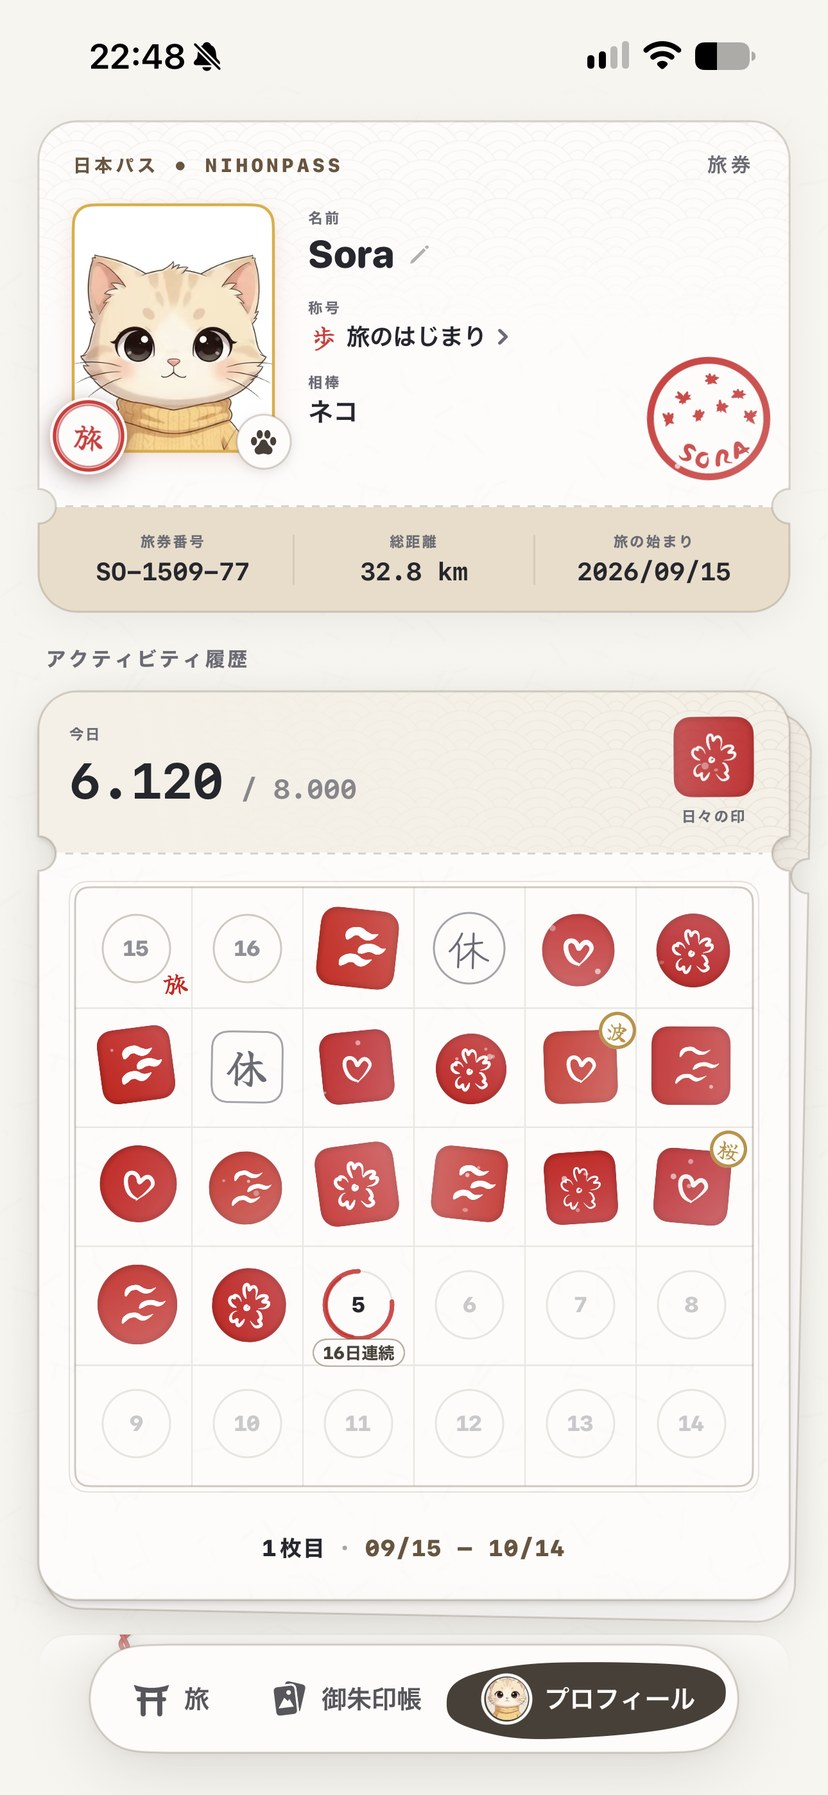
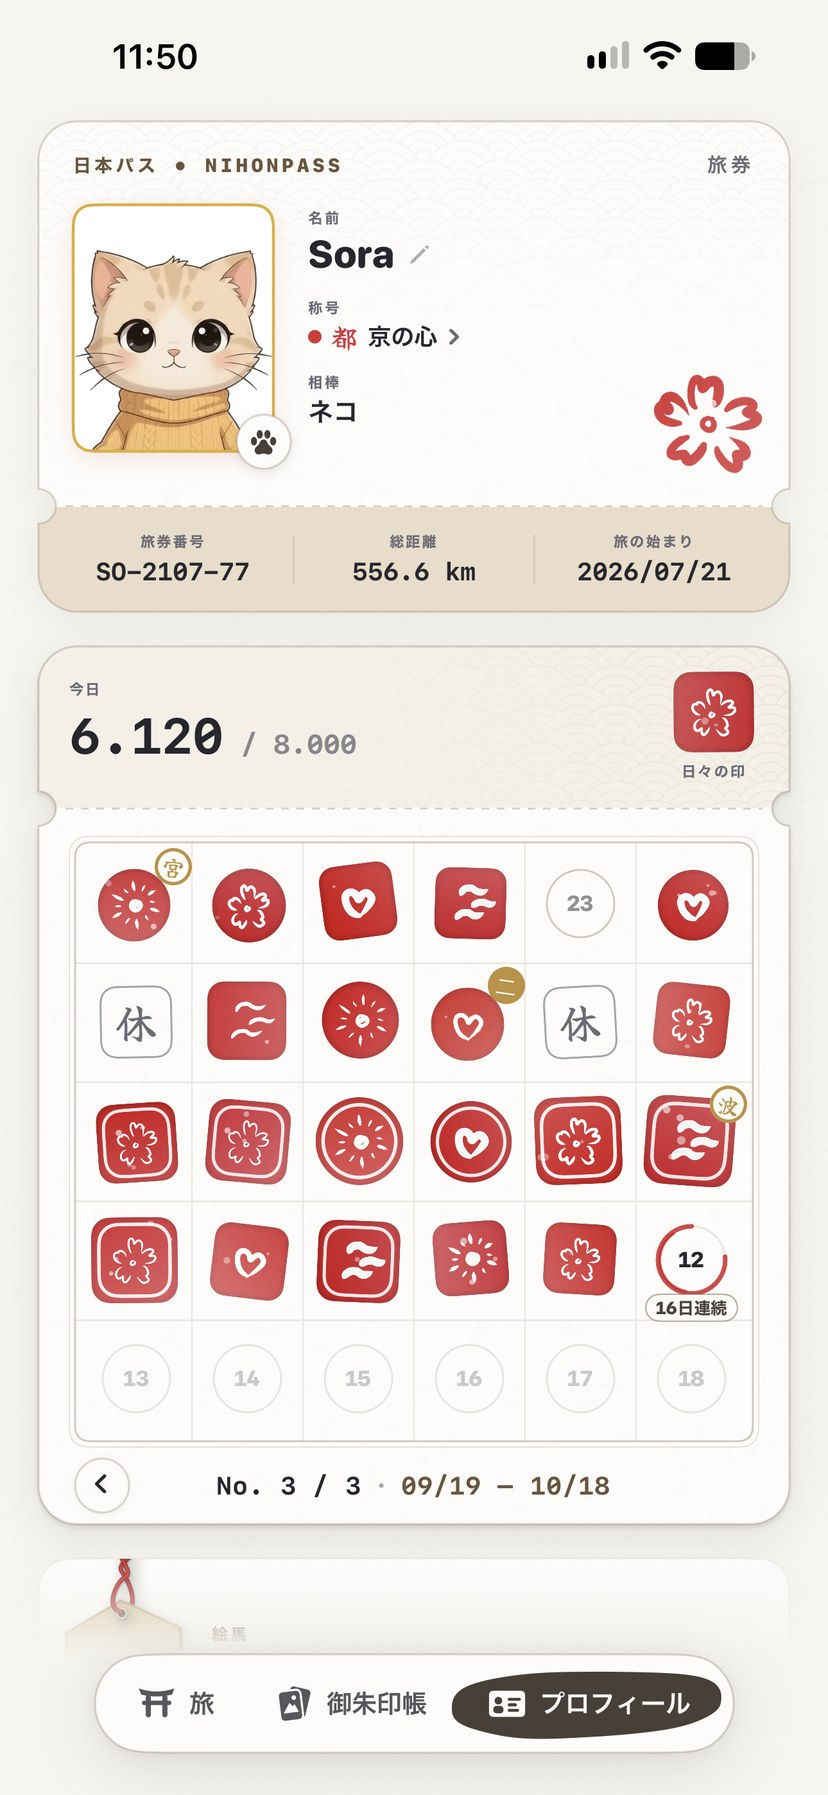
feat(web): update personalization mockup to current profile and refine copy to be natural and warm

diff --git a/js/translations.js b/js/translations.js
@@ -125,13 +125,13 @@ const translations = {
     // Personalisierung & Eigene Handschrift
     custom_tag: "TRADITION & EIGENE HANDSCHRIFT · 絵馬と落款",
     custom_title: "Dein Pass. Deine Handschrift.",
-    custom_desc: "Gestalte deine Reise so einzigartig wie deine Schritte. Von der traditionellen Ema-Wunschtafel vor dem Start bis zum handgemalten Siegel in deinem Reisepass.",
-    custom_b1_title: "Ema-Wunschtafel vor dem Start",
-    custom_b1_desc: "Wie am Schrein: Halte dein Vorhaben mit Pinsel und Tusche auf der Holztafel fest. Deine Wunschtafel begleitet dich bis zur Abschluss-Urkunde.",
-    custom_b2_title: "Dein handgemaltes Hanko-Siegel",
-    custom_b2_desc: "Gestalte dein persönliches Namenssiegel wie ein traditioneller Schreiber – als offizieller roter Stempel oben rechts auf deinem Reisepass.",
-    custom_b3_title: "Individuelle Tagesstempel im Kalender",
-    custom_b3_desc: "Jeder Tag, an dem du dein Schrittziel erreichst, wird mit deinem eigens handgemalten Stempel im Aktivitätskalender belohnt.",
+    custom_desc: "In Japan beginnt jede echte Reise mit einer persönlichen Geste. Statt vorgefertigter Profile nimmst du in NihonPass Pinsel und Tusche in die Hand: Du zeichnest dein eigenes Namenssiegel, schreibst Wünsche auf Holztafeln und machst deinen Reisepass zu etwas ganz Eigenem.",
+    custom_b1_title: "Eine Ema-Holztafel vor dem ersten Schritt",
+    custom_b1_desc: "Genau wie an japanischen Schreinen: Bevor es losgeht, malst du deinen Wunsch mit schwarzer Tusche auf eine kleine Holztafel. Sie hängt an deiner Reise und begleitet dich bis zur Urkunde am Ziel.",
+    custom_b2_title: "Dein persönliches Namenssiegel",
+    custom_b2_desc: "Ob eine Initiale, ein schnelles Kanji oder ein eigenes Symbol: Male mit dem Pinsel dein rotes Hanko-Siegel. Es wird oben rechts auf deinen Reisepass gestempelt – in echtem Zinnoberrot.",
+    custom_b3_title: "Selbstgemalte Stempel für jeden Tag",
+    custom_b3_desc: "Erreichst du dein Tagesziel, gibt es kein trockenes Häkchen: Du kannst bis zu fünf eigene Stempel gestalten und sogar kurze Notizen zu deinen Spaziergängen im Kalender hinterlassen.",
 
     // Companions (Exakt aus UserProfile.swift)
     comp_tag: "DEINE BEGLEITER · 相棒",
@@ -389,13 +389,13 @@ const translations = {
     // Customization & Brush
     custom_tag: "TRADITION & PERSONAL TOUCH · 絵馬と落款",
     custom_title: "Your Pass. Your Signature.",
-    custom_desc: "Make your journey as unique as your steps. From the traditional Ema wishing plaque before you start to a hand-drawn seal in your travel pass.",
-    custom_b1_title: "Ema Wishing Plaque at the Start",
-    custom_b1_desc: "Just like at a Japanese shrine: paint your intention on the wooden plaque with ink and brush. It stays with you all the way to your completion certificate.",
-    custom_b2_title: "Your Hand-Drawn Hanko Seal",
-    custom_b2_desc: "Craft your personal name seal like a traditional calligrapher – stamped in vermilion red at the top right of your passport.",
-    custom_b3_title: "Custom Daily Stamps in Your Calendar",
-    custom_b3_desc: "Every day you reach your daily step goal, your handcrafted stamp seals the day in your activity calendar.",
+    custom_desc: "In Japan, every journey begins with a personal touch. Instead of generic profiles, pick up a virtual brush and ink in NihonPass: draw your own red seal, write wishes on wooden plaques, and make your travel pass truly your own.",
+    custom_b1_title: "An Ema wooden plaque before your first step",
+    custom_b1_desc: "Just like at Japanese shrines: before setting out, paint your wish on a small wooden plaque with black ink. It hangs by your journey all the way to your certificate.",
+    custom_b2_title: "Your personal name seal (Hanko)",
+    custom_b2_desc: "An initial, a simple Kanji, or your own motif: draw your red Hanko seal with a brush. It stamps the top right of your passport in traditional vermilion.",
+    custom_b3_title: "Hand-drawn stamps for every day",
+    custom_b3_desc: "Hitting your step goal shouldn't feel like ticking off a checklist. Paint up to five custom stamps and add quiet daily notes to your walks in your calendar.",
 
     // Companions
     comp_tag: "YOUR COMPANIONS · 相棒",

diff --git a/index.html b/index.html
@@ -389,30 +389,30 @@
         <span class="section-tag" data-i18n="custom_tag">TRADITION & EIGENE HANDSCHRIFT · 絵馬と落款</span>
         <h2 class="section-title" data-i18n="custom_title">Dein Pass. Deine Handschrift.</h2>
         <p class="section-description" data-i18n="custom_desc">
-          Gestalte deine Reise so einzigartig wie deine Schritte. Von der traditionellen Ema-Wunschtafel vor dem Start bis zum handgemalten Siegel in deinem Reisepass.
+          In Japan beginnt jede echte Reise mit einer persönlichen Geste. Statt vorgefertigter Profile nimmst du in NihonPass Pinsel und Tusche in die Hand: Du zeichnest dein eigenes Namenssiegel, schreibst Wünsche auf Holztafeln und machst deinen Reisepass zu etwas ganz Eigenem.
         </p>
 
         <div class="feature-bullet">
           <div class="bullet-icon">⛩</div>
           <div>
-            <h4 class="bullet-title" data-i18n="custom_b1_title">Ema-Wunschtafel vor dem Start</h4>
-            <p class="bullet-text" data-i18n="custom_b1_desc">Wie am Schrein: Halte dein Vorhaben mit Pinsel und Tusche auf der Holztafel fest. Deine Wunschtafel begleitet dich bis zur Abschluss-Urkunde.</p>
+            <h4 class="bullet-title" data-i18n="custom_b1_title">Eine Ema-Holztafel vor dem ersten Schritt</h4>
+            <p class="bullet-text" data-i18n="custom_b1_desc">Genau wie an japanischen Schreinen: Bevor es losgeht, malst du deinen Wunsch mit schwarzer Tusche auf eine kleine Holztafel. Sie hängt an deiner Reise und begleitet dich bis zur Urkunde am Ziel.</p>
           </div>
         </div>
 
         <div class="feature-bullet">
           <div class="bullet-icon">🔴</div>
           <div>
-            <h4 class="bullet-title" data-i18n="custom_b2_title">Dein handgemaltes Hanko-Siegel</h4>
-            <p class="bullet-text" data-i18n="custom_b2_desc">Gestalte dein persönliches Namenssiegel wie ein traditioneller Schreiber – als offizieller roter Stempel oben rechts auf deinem Reisepass.</p>
+            <h4 class="bullet-title" data-i18n="custom_b2_title">Dein persönliches Namenssiegel</h4>
+            <p class="bullet-text" data-i18n="custom_b2_desc">Ob eine Initiale, ein schnelles Kanji oder ein eigenes Symbol: Male mit dem Pinsel dein rotes Hanko-Siegel. Es wird oben rechts auf deinen Reisepass gestempelt – in echtem Zinnoberrot.</p>
           </div>
         </div>
 
         <div class="feature-bullet">
           <div class="bullet-icon">🌸</div>
           <div>
-            <h4 class="bullet-title" data-i18n="custom_b3_title">Individuelle Tagesstempel im Kalender</h4>
-            <p class="bullet-text" data-i18n="custom_b3_desc">Jeder Tag, an dem du dein Schrittziel erreichst, wird mit deinem eigens handgemalten Stempel im Aktivitätskalender belohnt.</p>
+            <h4 class="bullet-title" data-i18n="custom_b3_title">Selbstgemalte Stempel für jeden Tag</h4>
+            <p class="bullet-text" data-i18n="custom_b3_desc">Erreichst du dein Tagesziel, gibt es kein trockenes Häkchen: Du kannst bis zu fünf eigene Stempel gestalten und sogar kurze Notizen zu deinen Spaziergängen im Kalender hinterlassen.</p>
           </div>
         </div>
       </div>
@@ -434,8 +434,8 @@
         <div class="fanned-phone fanned-phone-front" title="Profil & eigenes Siegel">
           <div class="streak-phone-screen">
             <div class="iphone-island"></div>
-            <img src="assets/images/screenshots/de/profil_siegel.jpg" 
-                 data-i18n-src="profil_siegel" 
+            <img src="assets/images/screenshots/de/profil_kalender.jpg?v=20261013" 
+                 data-i18n-src="profil_kalender" 
                  alt="NihonPass Reisepass mit eigenem Hanko-Siegel und Tagesstempeln" 
                  class="streak-screen-img" loading="lazy">
           </div>
